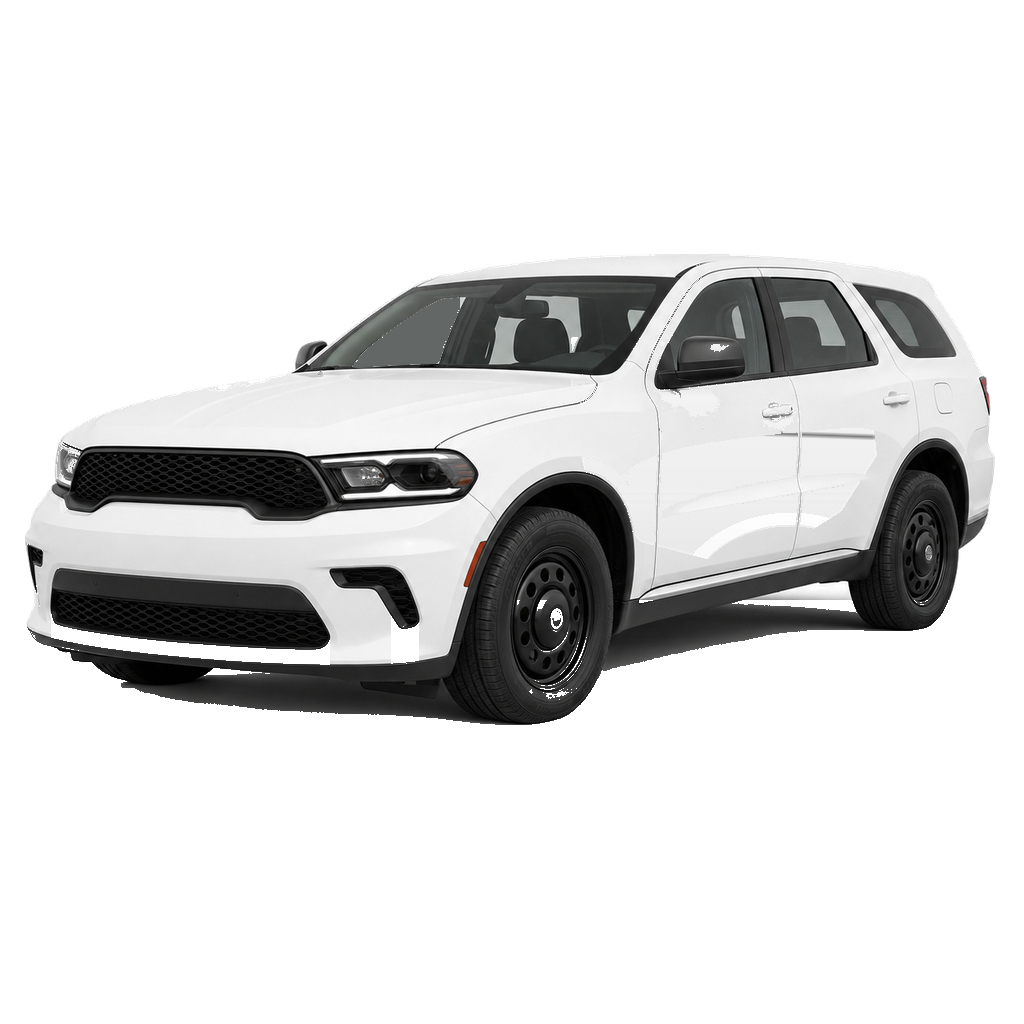
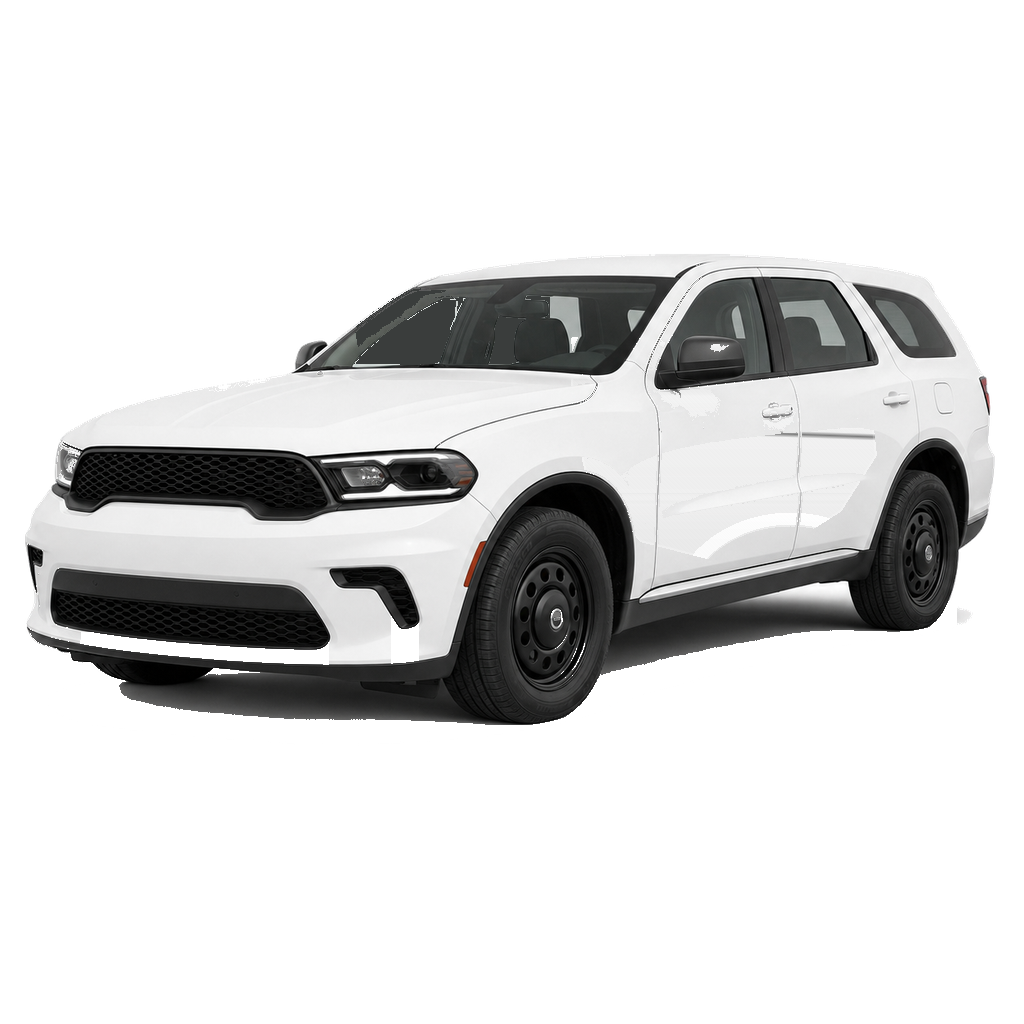
Restore Durango Hero body and match Right glass to Left (studio12)
Start Hero from the Integrity Pursuit original (eca0975 / 548602 /
f8ed98a8aaad). Punch only the bright floor oval after the per-column
underbody; restore bumper, grille, and chin lip so studio11's floor
punch cannot shade the fascia. Tint blown-out windshield/cabin fill to
the already-dark driver pane. Retint Right front glass to Left's
(57,59,59) without writing L>235 paint. Left body/glass, Front, Rear,
Hatch, GhostBar, and ALGT widths untouched. ASSET_V=studio12.

diff --git a/visualizer/index.html b/visualizer/index.html
@@ -200,7 +200,7 @@ select:focus,input[type=text]:focus{box-shadow:0 0 0 2px color-mix(in srgb,var(-
 (function(){
 /* Multi-canvas visualizer. Catalog is shared FedSig SKUs (no invented lights).
    Durango mounts stay as previously signed; trucks have their own snaps. */
-var ASSET_V="studio11";
+var ASSET_V="studio12";
 var FX_V="max4";
 var DURANGO_VIEWS=[
   {id:"front",label:"Front",imgW:"durango_front.png",imgB:"durango_front_black.png"},
